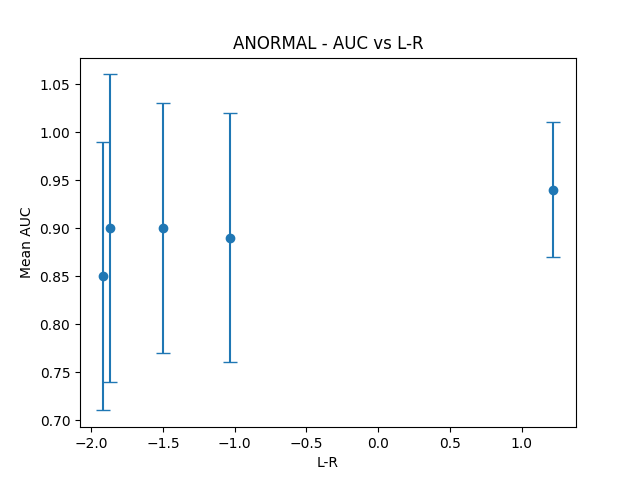
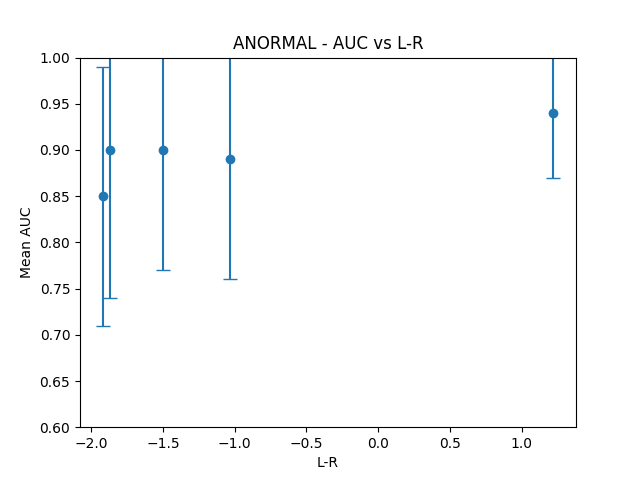
handle stats

diff --git a/stats.py b/stats.py
@@ -1,22 +1,112 @@
 import matplotlib.pyplot as plt
-
 import json
-f = open('Data/V2/stats_v2_face.json')
-xai = json.load(f)
+
+def symmetry(shap, plot_name):
+    """
+    return value of symmetry for top/bot and left/right
+    """
+    check_list_top = [
+        'lshoulder-lelbow', 'rshoulder-relbow', 'lelbow-lwrist', 'relbow-rwrist',
+        'lshoulder', 'rshoulder', 'lelbow', 'relbow', 'lwrist', 'rwrist',
+        'top_right', 'top_left']
+    check_list_right = [
+        'rshoulder-relbow', 'relbow-rwrist', 'rshoulder', 'relbow', 'rwrist',
+        'rhip-rknee', 'rknee-rankle', 'rhip', 'rknee', 'rankle',
+        'top_right', 'bot_right']
+
+    top, bot, right, left = [], [], [], []
+    nb_top, nb_bot, nb_right, nb_left = 0, 0, 0, 0
+
+    for feature, shap_value in shap[plot_name].items():
+        if feature == "Face":
+            continue
+        if plot_name[:11] == 'linear_data':
+            feature = feature[:-2]
+        if feature.lower() in check_list_top:
+            top.append(shap_value)
+            nb_top += 1
+        else:
+            bot.append(shap_value)
+            nb_bot += 1
+        if feature.lower() in check_list_right:
+            right.append(shap_value)
+            nb_right += 1
+        else:
+            left.append(shap_value)
+            nb_left += 1
+
+    top, bot, right, left = sum(top), sum(bot), sum(right), sum(left)
+
+    if bot > top:
+        sym_top_bot = round((bot / top), 2)
+    else:
+        sym_top_bot = round((top / bot), 2)
+    if right > left:
+        sym_left_right = round((right / left), 2) * -1
+    else:
+        sym_left_right = round((left / right), 2)
+
+    return [sym_top_bot, sym_left_right]
+
+# ouvrir shap dict
+f = open('Data/V2/shap_v2.json')
+shap = json.load(f)
 f.close()
 
-def create_plot(xai, sym_type):
-    x_values = [v[sym_type] for v in xai.values()]
-    y_values = [v["mean"] for v in xai.values()]
-    y_error = [v["std"] for v in xai.values()]
+# ouvrir auc dict
+f = open('Data/V2/auc_v2.json')
+auc = json.load(f)
+f.close()
 
-    plt.errorbar(x_values, y_values, yerr=y_error, fmt='o', capsize=5)
+datasets = [dataset for dataset in auc.keys()]
 
-    plt.xlabel(sym_type)
-    plt.ylabel("Mean AUC")
-    plt.title("AUC vs " + sym_type)
+stats = auc
+for dataset in datasets:
+    t_b, l_r = [], []
+    for label in ["_normal", "_anormal"]:
+        stats[dataset]["mean"] = round(stats[dataset]["mean"], 2)
+        stats[dataset]["std"] = round(stats[dataset]["std"], 2)
+        stats[dataset]["sym" + label] = {}
+        if dataset != "amplitudes":
+            sym = symmetry(shap=shap, plot_name=dataset+label)
+            stats[dataset]["sym" + label]["T-B"] = sym[0] 
+            stats[dataset]["sym" + label]["L-R"] = sym[1] 
+            t_b.append(sym[0])
+            l_r.append(sym[1])
+    stats[dataset]["sym_global"] = {
+        "T-B": round(sum(t_b)/2, 2), 
+        "L-R": round(sum(l_r)/2, 2)}
 
-    plt.savefig("Visuals/V2_face/stats_AUC_vs_" + sym_type + ".png")
+datasets_to_remove = [
+    'angular_velocity', 'angular_jurk', 'angular_data', 
+    'amplitudes', 'angular_acceleration', 'linear_data']
+for dataset in datasets_to_remove:
+    datasets.remove(dataset)
 
-for sym_type in ["T-B", "L-R"]:
-    create_plot(xai, sym_type)
+for label in ["global", "normal", "anormal"]:
+    for sym_type in ["T-B", "L-R"]:
+
+        x = [stats[dataset]["sym_"+label][sym_type] for dataset in datasets]
+        y = [stats[dataset]["mean"] for dataset in datasets]
+        y_error = [stats[dataset]["std"] for dataset in datasets]
+
+        combined = zip(x, y, y_error, datasets)
+        sorted_combined = sorted(combined, key=lambda x: x[0])
+        x_sorted, y_sorted, y_error_sorted, datasets_sorted = zip(*sorted_combined)
+
+        fig, ax = plt.subplots()
+
+        plt.errorbar(x_sorted, y_sorted, yerr=y_error_sorted, fmt='o', capsize=5)
+
+        plt.xlabel(sym_type)
+        plt.ylabel("Mean AUC")
+        plt.title(label.upper() + " - AUC vs " + sym_type)
+
+        plt.ylim(0.6, 1)
+
+        plt.savefig("Data/V2/Stats/" + label + "_AUC_vs_" + sym_type + ".png");
+
+json = json.dumps(stats)
+f = open("Data/V2/Stats/stats.json", "w")
+f.write(json)
+f.close()
